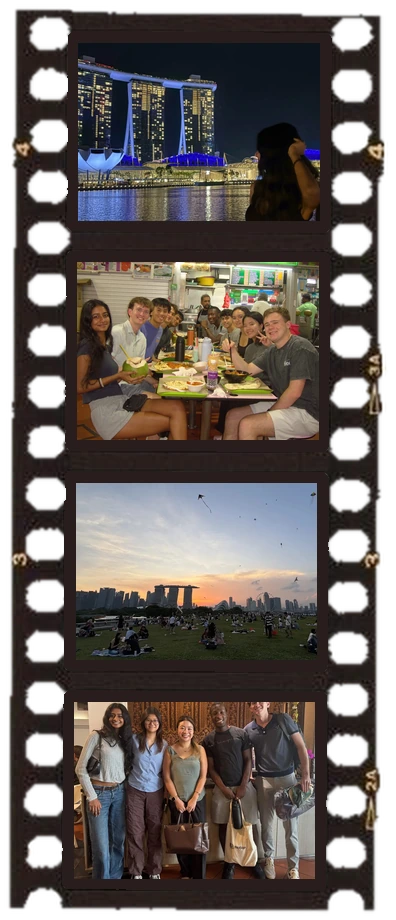
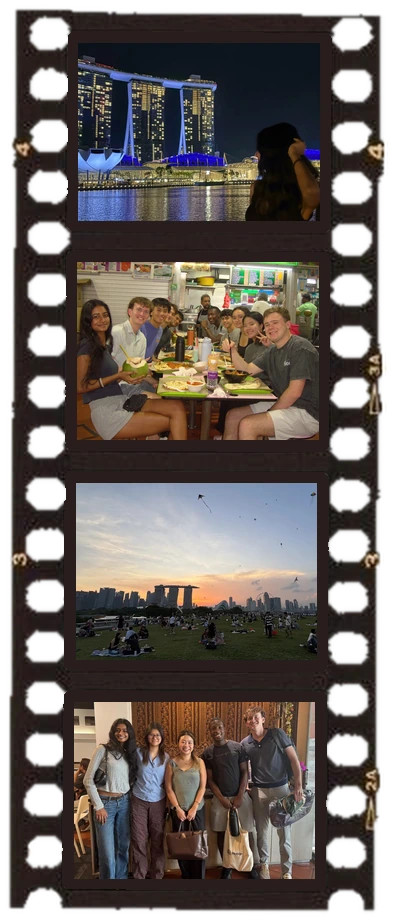
Add film strip close-up, LinkedIn badge and photo recrop
- Click the Singapore film strip to open a centred close-up (drag still moves it)
- Slightly larger film strip; reframe last photo so no heads are cut off
- Rounded-square "in" badge next to LinkedIn
- White die-cut edge on all stickers

Changed region(s): [[0.1818, 0.7609, 0.8182, 0.9739]]

diff --git a/index.html b/index.html
@@ -9,7 +9,7 @@
   <link rel="preconnect" href="https://fonts.googleapis.com" />
   <link rel="preconnect" href="https://fonts.gstatic.com" crossorigin />
   <link href="https://fonts.googleapis.com/css2?family=DM+Serif+Display:ital@0;1&family=DM+Sans:opsz,wght@9..40,400;9..40,500;9..40,700&family=Caveat:wght@500;700&display=swap" rel="stylesheet" />
-  <link rel="stylesheet" href="css/style.css?v=5" />
+  <link rel="stylesheet" href="css/style.css?v=8" />
 </head>
 <body>
   <div class="tiles" aria-hidden="true"></div>
@@ -243,7 +243,7 @@
         </ul>
       </div>
 
-      <img class="sticker" data-hide-mobile src="assets/stickers/filmstrip.webp?v=4" alt="Film strip of Singapore photos: Marina Bay Sands at night, dinner at a hawker centre, kites at sunset, and the Fuzzy AI team" style="--x:78%; --y:9%; --w:150px; --r:4deg" />
+      <img class="sticker" data-zoom data-hide-mobile src="assets/stickers/filmstrip.webp?v=5" alt="Film strip of Singapore photos: Marina Bay Sands at night, dinner at a hawker centre, kites at sunset, and the Fuzzy AI team" style="--x:77%; --y:8%; --w:175px; --r:4deg" />
       <img class="sticker" data-hide-mobile src="assets/stickers/plate_memories.webp" alt="" style="--x:76%; --y:62%; --w:230px; --r:-7deg" />
       <img class="sticker" data-hide-mobile src="assets/stickers/tin_green.webp" alt="" style="--x:86%; --y:42%; --w:120px; --r:-5deg" />
       <img class="sticker" data-hide-mobile src="assets/stickers/stamp_japan.webp" alt="" style="--x:2%;  --y:50%; --w:110px; --r:-9deg" />
@@ -277,7 +277,7 @@
           <p>I'm open to software engineering and product management internships, and to fun collaborations.</p>
           <ul class="contact__links">
             <li><a href="mailto:shreya.rajaram@gmail.com">✉ Email</a></li>
-            <li><a href="https://www.linkedin.com/in/shreya-rajaram" target="_blank" rel="noopener">in LinkedIn</a></li>
+            <li><a href="https://www.linkedin.com/in/shreya-rajaram" target="_blank" rel="noopener"><span class="icon-box" aria-hidden="true">in</span>LinkedIn</a></li>
             <li><a href="https://github.com/ShreyaRajaram" target="_blank" rel="noopener">⌥ GitHub</a></li>
           </ul>
         </div>
@@ -291,6 +291,6 @@
     <p>© <span id="year"></span> Shreya Rajaram · made with glue sticks &amp; HTML</p>
   </footer>
 
-  <script src="js/main.js?v=3"></script>
+  <script src="js/main.js?v=4"></script>
 </body>
 </html>

diff --git a/js/main.js b/js/main.js
@@ -5,7 +5,7 @@ document.getElementById("year").textContent = new Date().getFullYear();
 // Drag with mouse or touch. Positions aren't saved — refresh to reset.
 let topZ = 40;
 document.querySelectorAll(".sticker").forEach((el) => {
-  let startX, startY, baseX = 0, baseY = 0;
+  let startX, startY, baseX = 0, baseY = 0, downX, downY;
 
   el.addEventListener("pointerdown", (e) => {
     e.preventDefault();
@@ -14,6 +14,8 @@ document.querySelectorAll(".sticker").forEach((el) => {
     el.style.zIndex = ++topZ;
     startX = e.clientX - baseX;
     startY = e.clientY - baseY;
+    downX = e.clientX;
+    downY = e.clientY;
   });
 
   el.addEventListener("pointermove", (e) => {
@@ -23,10 +25,33 @@ document.querySelectorAll(".sticker").forEach((el) => {
     el.style.translate = `${baseX}px ${baseY}px`;
   });
 
-  const drop = () => el.classList.remove("is-dragging");
-  el.addEventListener("pointerup", drop);
-  el.addEventListener("pointercancel", drop);
+  el.addEventListener("pointerup", (e) => {
+    el.classList.remove("is-dragging");
+    // A press that barely moved is a click, not a drag → open the close-up view
+    const moved = Math.hypot(e.clientX - downX, e.clientY - downY);
+    if (moved < 6 && el.hasAttribute("data-zoom")) openZoom(el);
+  });
+  el.addEventListener("pointercancel", () => el.classList.remove("is-dragging"));
 });
+
+// ---------- Click-to-zoom close-up ----------
+const zoom = document.createElement("div");
+zoom.className = "zoom";
+zoom.setAttribute("role", "dialog");
+zoom.setAttribute("aria-modal", "true");
+zoom.innerHTML = '<img alt="" /><button class="zoom__close" aria-label="Close">×</button>';
+document.body.appendChild(zoom);
+const zoomImg = zoom.querySelector("img");
+
+function openZoom(el) {
+  zoomImg.src = el.src;
+  zoomImg.alt = el.alt;
+  zoom.classList.add("is-open");
+  zoom.querySelector(".zoom__close").focus({ preventScroll: true });
+}
+function closeZoom() { zoom.classList.remove("is-open"); }
+zoom.addEventListener("click", closeZoom);
+document.addEventListener("keydown", (e) => { if (e.key === "Escape") closeZoom(); });
 
 // ---------- Reveal-on-scroll ----------
 const revealables = document.querySelectorAll(".paper, .stamp, .ticket, .label, .ransom");

diff --git a/css/style.css b/css/style.css
@@ -198,6 +198,48 @@ h3 { font-size: 1.5rem; }
   transition: none;
 }
 
+.sticker[data-zoom] { cursor: zoom-in; }
+
+/* click-to-zoom close-up */
+.zoom {
+  position: fixed;
+  inset: 0;
+  z-index: 100;
+  display: grid;
+  place-items: center;
+  padding: 24px;
+  background: rgb(8 16 40 / .82);
+  backdrop-filter: blur(4px);
+  opacity: 0;
+  visibility: hidden;
+  transition: opacity .25s ease, visibility .25s;
+  cursor: zoom-out;
+}
+.zoom.is-open { opacity: 1; visibility: visible; }
+.zoom img {
+  max-height: 92vh;
+  max-width: min(92vw, 520px);
+  width: auto;
+  filter: drop-shadow(0 20px 30px rgb(0 0 0 / .55));
+  scale: .85;
+  rotate: 3deg;
+  transition: scale .3s ease, rotate .3s ease;
+}
+.zoom.is-open img { scale: 1; rotate: 0deg; }
+.zoom__close {
+  position: absolute;
+  top: 18px; right: 22px;
+  width: 44px; height: 44px;
+  border: 0;
+  border-radius: 50%;
+  background: var(--paper);
+  color: var(--navy);
+  font-size: 1.8rem;
+  line-height: 1;
+  cursor: pointer;
+  box-shadow: var(--shadow);
+}
+
 /* ---------- about / postcard ---------- */
 .postcard {
   display: grid;
@@ -415,6 +457,22 @@ h3 { font-size: 1.5rem; }
   transition: background-size .25s;
 }
 .contact__links a:hover { background-size: 100% 35%; }
+.icon-box { /* rounded-square badge, LinkedIn-logo style */
+  display: inline-grid;
+  place-items: center;
+  width: 1.05em;
+  height: 1.05em;
+  margin-right: .35em;
+  border-radius: .22em;
+  background: var(--navy);
+  color: var(--paper);
+  font-family: var(--sans);
+  font-weight: 700;
+  font-size: .8em;
+  line-height: 1;
+  vertical-align: .08em;
+  padding-bottom: .05em;
+}
 
 .footer {
   text-align: center;
